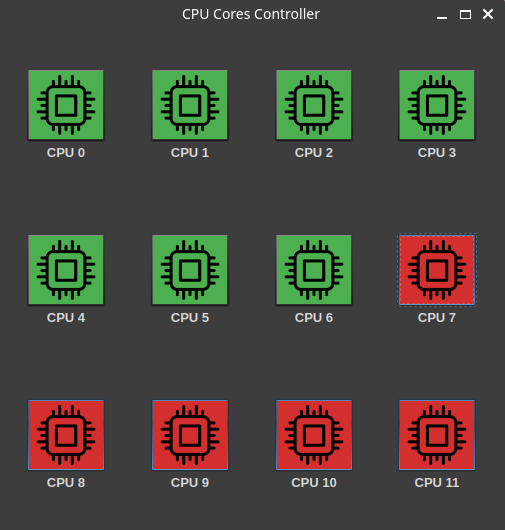
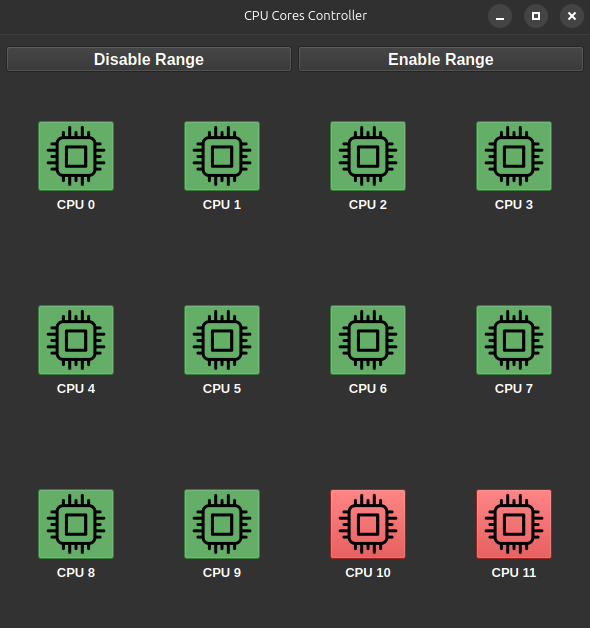
fixes #1

diff --git a/cpu_controller_linux/main.py b/cpu_controller_linux/main.py
@@ -20,8 +20,8 @@ class CPUCoresController(QWidget):
         self.setWindowTitle('CPU Cores Controller')
         self.setMinimumSize(600, 600)
 
-        # Dynamically determine the number of CPU cores
-        self.num_cores = os.cpu_count() or 1
+        # Dynamically determine the number of CPU cores from the filesystem
+        self.num_cores = self.detect_cores()
 
         self.layout = QVBoxLayout()
 
@@ -72,6 +72,12 @@ class CPUCoresController(QWidget):
         # Set initial core states
         self.update_core_states()
 
+    def detect_cores(self):
+        cores = 0
+        while os.path.exists(f'/sys/devices/system/cpu/cpu{cores}'):
+            cores += 1
+        return cores
+
     def toggle_core(self, core):
         file_path = f'/sys/devices/system/cpu/cpu{core}/online'
 
@@ -87,16 +93,23 @@ class CPUCoresController(QWidget):
 
     def update_core_states(self):
         for core, button in enumerate(self.core_buttons):
+            if core == 0:
+                button.setChecked(True)
+                button.setStyleSheet("background-color: #4CAF50; color: white;")
+                continue
             file_path = f'/sys/devices/system/cpu/cpu{core}/online'
 
             try:
                 current_state = int(open(file_path).read().strip())
                 if current_state == 1:
+                    button.setChecked(True)
                     button.setStyleSheet("background-color: #4CAF50; color: white;")
                 else:
+                    button.setChecked(False)
                     button.setStyleSheet("background-color: #D32F2F; color: white;")
             except FileNotFoundError:
-                button.setStyleSheet("background-color: #4CAF50; color: white;")
+                button.setChecked(False)
+                button.setStyleSheet("background-color: #D32F2F; color: white;")
 
     def disable_range(self):
         try:
@@ -145,22 +158,6 @@ class CPUCoresController(QWidget):
 
         except Exception as e:
             print(f'An error occurred: {str(e)}')
-
-    def closeEvent(self, event):
-        all_cpus_enabled = True
-
-        for core in range(len(self.core_buttons)):
-            file_path = f'/sys/devices/system/cpu/cpu{core}/online'
-            try:
-                subprocess.run(['sudo', 'su', '-c', f'echo 1 > {file_path}'])
-            except Exception as e:
-                print(f'An error occurred: {str(e)}')
-                all_cpus_enabled = False
-
-        if all_cpus_enabled:
-            self.show_all_cpus_enabled_popup()
-
-        event.accept()
 
     def show_all_cpus_enabled_popup(self):
         msg_box = QMessageBox()

diff --git a/README.md b/README.md
@@ -1,30 +1,47 @@
-# CPU Controller for Linux
+# CPU Cores Controller
 
-**Description:** CPU Controller for Linux is a straightforward GUI application based on PyQt6, enabling users to toggle individual CPU cores on or off in a Linux system to save battery life. This functionality serves purposes such as power management and troubleshooting.
+This is a PyQt6 application to control the state of CPU cores on a Linux system. The application allows you to enable or disable individual CPU cores or a range of CPU cores.
 
-![alt text](image.png)
+## Features
+
+- **Enable/Disable Individual Cores**: Click on the CPU core buttons to toggle their state.
+- **Enable/Disable Range of Cores**: Use the "Disable Range" and "Enable Range" buttons to specify a range of cores to disable or enable.
+- **Dynamic Core Detection**: Automatically detects the number of CPU cores on your system.
+
+## Requirements
+
+- Python 3.x
+- PyQt6
+- Root privileges (sudo access)
 
 ## Installation
 
-To install the CPU Controller for Linux, use the following pip command:
+1. Clone the repository:
+	```sh
+	git clone https://github.com/devansharora18/cpu-controller.git
+	cd cpu-controller
+	```
 
-```bash
-pip install cpu-controller-linux
-```
+2. Install the required Python packages:
+	```sh
+	pip install -r requirements.txt
+	```
 
-After installation, run the application in the terminal with:
+3. Run the application:
+	```sh
+	sudo python3 main.py
+	```
 
-```bash
-cpu-controller
-```
+## Usage
 
-## Application Interface
+- **Toggle Individual Cores**: Click on the CPU core buttons to enable or disable them.
+- **Disable Range**: Click on the "Disable Range" button and enter the start and end core indices to disable.
+- **Enable Range**: Click on the "Enable Range" button and enter the start and end core indices to enable.
 
-The application interface consists of buttons representing each CPU core, along with a labeled core number. Clicking the respective buttons toggles the cores on or off.
+## Screenshots
 
-## Enabling All Cores
+![CPU Cores Controller](image.png)
 
-Upon closing the application, a prompt will confirm whether to enable all CPU cores. Clicking "Yes" in the prompt activates all CPU cores.
+## License
 
-
-### Feel free to contribute and report issues
+This project is licensed under the MIT License.
